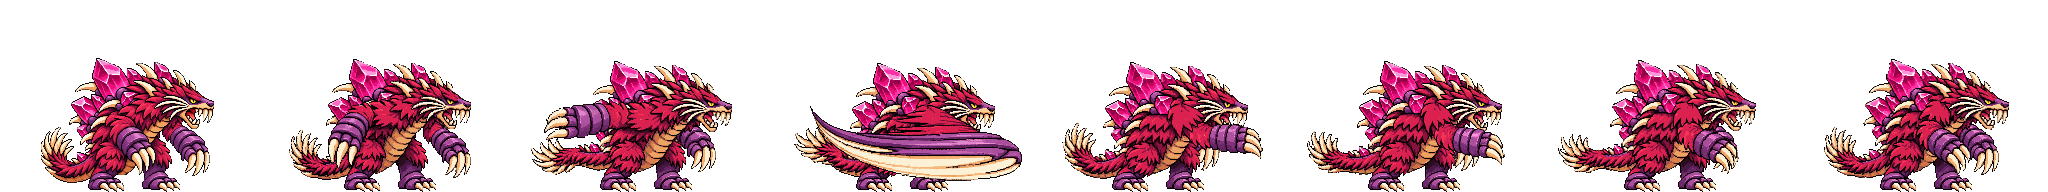
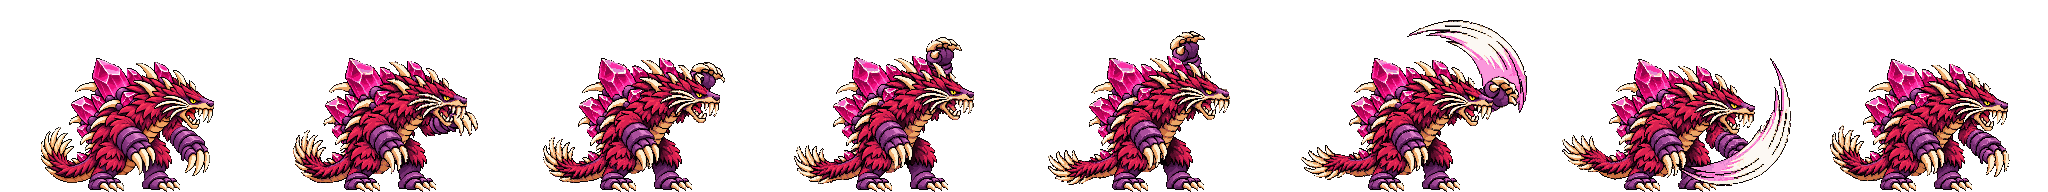
Make light hit 2 swipe with the far arm on Stages 2 and 3
The combo is near arm, far arm, bite, but both regenerated light2 strips
swung the near arm again: PixelLab animates the arm it can see. Re-rolled
with the near leg pinned to the ground and the far arm rising behind the
head before slashing across in front of the snout (two seeds per stage;
Stage 2 uses 10 of 12 frames, Stage 3 all 8). Frame counts and fps are
unchanged.

Claude-Session: https://claude.ai/code/session_01SJ9dCxQEZcSV2FHfL88Zkr

Changed region(s): [[0.125, 0.0938, 1.0, 0.9688]]

diff --git a/README.md b/README.md
@@ -55,9 +55,9 @@ Score is earned points minus actual HP damage penalty, including healed damage. 
 - `src/game.ts`: input, simulation composition, camera, UI, Canvas rendering; update separated from rendering.
 - `public/`: responsive 16:9 shell and asset slots. Art hooks are `monster`, `drawBuilding`, `drawCampaignObjective`, `drawMilitary`, `drawPopulation` and `background`.
 
-**Art:** `public/assets/mogurodon.png` is the first final sprite (transparent, keyed from the supplied render and downscaled to 444×231). Sprites are registered in `SPRITES` in `src/presentation.ts` and used by gameplay, selection previews and the ending scene; kaiju without a sprite fall back to the geometric silhouettes. Mogurodon's base form is its Stage 2 design. Its base still, `public/assets/mogurodon-s2.png`, is the transparent render keyed with `tools/key_render.py` (grid measured at 8.455x8.61 px per art pixel): a 194x106 native sprite at x=31, feet on the bottom row of a 256x192 frame, outline intact. Every Stage 2 strip is generated from it with PixelLab and registered with `S2_NATIVE` (scale 194/256, anchor 128), so it draws at the old width and foot position; frame counts and fps are unchanged (they are the timing the other forms fall back to). The previous Stage 2 strips were a darker brown recolour built on an older base. Strips (all 256x192 except the 256x256 climb): 8-frame idle and walk loops closed on the base pose; light combo `mogurodon-swipe-right.png` (near-claw overhead swipe, 24 fps), `mogurodon-swipe-left.png` (far-claw swipe, 10 of 13 generated frames with the still wind-up dropped, 26 fps), `mogurodon-bite.png` (lunge-bite, 20 fps); heavy rear/slam cut from one 16-frame rear-and-slam generation (rear = frames 0-4, slam = 7-15 from the peak into the crash and dust spikes) plus a 4-frame hold from the peak pose; ranged tail-and-quill fling (the detached quill PixelLab drew flies backwards and is erased; the game draws the projectile) and a crouched quill-bristle shot; crouch down, breathing loop, crouch up (reversed); jump rise, air loop and landing, bottom-aligned; Seismic Rupture roar (8 of 17 frames, 0,2,3,5,8,10,12,16, so the shockwave crash is impact frame 5) and an 8-frame two-claw ground-pound loop; climb grab, loop and mantle with the gripping claws on the wall line at frame x=167 (PixelLab painted the wall as a thin brown post at x=224, erased with a 1px outline redrawn where it covered the body; the mantle starts 23px further back and eases to 0); grab (a pebble PixelLab drew at the claws is erased), carry and carry-walk loops with per-frame `hold` points on the fists, and a throw (re-rolled without any object in the prompt: the first one drew a log). The gold eye is restored with `tools/fix_eye.py` against the base plus crouch, carry, heavy-peak and Ultimate-pose references (`--max-err 9000` skips turned or hidden heads), then every strip gets `fill_pinholes.py` and `remove_specks.py`. `mogurodon.png` is the older high-res reference and is not used by the game.
+**Art:** `public/assets/mogurodon.png` is the first final sprite (transparent, keyed from the supplied render and downscaled to 444×231). Sprites are registered in `SPRITES` in `src/presentation.ts` and used by gameplay, selection previews and the ending scene; kaiju without a sprite fall back to the geometric silhouettes. Mogurodon's base form is its Stage 2 design. Its base still, `public/assets/mogurodon-s2.png`, is the transparent render keyed with `tools/key_render.py` (grid measured at 8.455x8.61 px per art pixel): a 194x106 native sprite at x=31, feet on the bottom row of a 256x192 frame, outline intact. Every Stage 2 strip is generated from it with PixelLab and registered with `S2_NATIVE` (scale 194/256, anchor 128), so it draws at the old width and foot position; frame counts and fps are unchanged (they are the timing the other forms fall back to). The previous Stage 2 strips were a darker brown recolour built on an older base. Strips (all 256x192 except the 256x256 climb): 8-frame idle and walk loops closed on the base pose; light combo `mogurodon-swipe-right.png` (near-claw overhead swipe, 24 fps), `mogurodon-swipe-left.png` (far-arm swipe: the far arm rises behind the head and slashes across while the near leg stays planted, 10 of 12 generated frames, 26 fps; the first generation swung the near arm again, so the prompt pins the near leg), `mogurodon-bite.png` (lunge-bite, 20 fps); heavy rear/slam cut from one 16-frame rear-and-slam generation (rear = frames 0-4, slam = 7-15 from the peak into the crash and dust spikes) plus a 4-frame hold from the peak pose; ranged tail-and-quill fling (the detached quill PixelLab drew flies backwards and is erased; the game draws the projectile) and a crouched quill-bristle shot; crouch down, breathing loop, crouch up (reversed); jump rise, air loop and landing, bottom-aligned; Seismic Rupture roar (8 of 17 frames, 0,2,3,5,8,10,12,16, so the shockwave crash is impact frame 5) and an 8-frame two-claw ground-pound loop; climb grab, loop and mantle with the gripping claws on the wall line at frame x=167 (PixelLab painted the wall as a thin brown post at x=224, erased with a 1px outline redrawn where it covered the body; the mantle starts 23px further back and eases to 0); grab (a pebble PixelLab drew at the claws is erased), carry and carry-walk loops with per-frame `hold` points on the fists, and a throw (re-rolled without any object in the prompt: the first one drew a log). The gold eye is restored with `tools/fix_eye.py` against the base plus crouch, carry, heavy-peak and Ultimate-pose references (`--max-err 9000` skips turned or hidden heads), then every strip gets `fill_pinholes.py` and `remove_specks.py`. `mogurodon.png` is the older high-res reference and is not used by the game.
 
-**Per-stage forms:** `SPRITES[name]` is the base form (for Mogurodon, the art above is its Stage 2 design, also used for Stage 3); `stages[n]` overrides it for one stage. Inside a stage form a missing strip falls back to that form's own `idle`, while gameplay timing (`animDuration`/`animImpact`) borrows the base strip's, so combat is unchanged until a form's strips are animated. Mogurodon Stage 1 (`assets/mogurodon-s1.png`, 256x192, bottom-aligned) is the base; its 8-frame idle (`assets/mogurodon-s1-idle.png`, 8 fps) and walk (`assets/mogurodon-s1-walk.png`, 10 fps, base pose as first and last frame) loops cost one PixelLab generation each. Light combo (`light1`/`light2`/`light3`, keyed by hit order so each form picks its own moves): near (left) paw swipe, far (right) paw swipe, lunging bite (`assets/mogurodon-s1-light1..3.png`) and heavy: `assets/mogurodon-s1-heavy-rear.png` (onto the hind legs) and `assets/mogurodon-s1-heavy-slam.png` (crash and settle) are cut from one generated rear-and-slam strip, with `assets/mogurodon-s1-heavy-hold.png` (straining 4-frame loop) generated from the peak pose. Stage 1 has no tail: its ranged shot (`assets/mogurodon-s1-ranged-stand.png`) lowers the head and arches the back like a hissing cat, firing quills off the back; the projectile spawn and timing are unchanged. Crouch: `assets/mogurodon-s1-crouch-down.png` (flat stalking crouch, ~61% of standing height like Stage 2), `assets/mogurodon-s1-crouch.png` (breathing loop), `assets/mogurodon-s1-crouch-up.png` (reversed), and the crouched shot `assets/mogurodon-s1-ranged-crouch.png` (hunches into the arch from the crouch, fires, flattens back). Climb: `assets/mogurodon-s1-climb-grab.png`, `assets/mogurodon-s1-climb.png` (hand-over-hand loop) and `assets/mogurodon-s1-climb-mantle.png`, 256x256 padded strips with the front claws on the hitbox edge; the grab is shifted onto the wall line and the mantle pre-shifted to cancel the hitbox sliding onto the roof. `tools/remove_wall.py` erases the wall post PixelLab drew into the grab. Seismic Rupture: `assets/mogurodon-s1-ult-roar.png` (rear up, roar, shockwave crash on frame 5 so the first fissure keeps Stage 2's timing) into `assets/mogurodon-s1-ult-pound.png` (two-slam ground-pounding loop). The full-frame base touches the frame edge, so strips that reach forward (light1, light3, heavySlam) are generated from a padded base, `assets/mogurodon-s1-pad.png` (205px wide at x=10, made with `tools/prep_form_base.py --width 205 --x 10`), and registered with `scale`/`anchor` so they draw at the same size and position. Jump: `assets/mogurodon-s1-jump-rise.png` (9 frames, 24 fps) and `assets/mogurodon-s1-jump-air.png` (4-frame loop, 8 fps, generated from the rise's last frame) and `assets/mogurodon-s1-jump-land.png` (5 frames, 20 fps, air pose to base pose), bottom-aligned with `tools/bottom_align.py`. PixelLab washes out the gold eye after frame 0; `tools/fix_eye.py --ref assets/mogurodon-s1.png --radius 30` tracks the head and restores it. Animate further strips with `tools/pixellab_animate.py` and add strips to `stages[1].anims`. Mogurodon Stage 3 (`assets/mogurodon-s3.png`) is the transparent render keyed with `tools/key_render.py`, which measures the render's real pixel grid (about 8.055x7.77 px per art pixel, offset) and keys by alpha, so the sprite keeps its outline and comes out at native resolution: 173x134 at x=41, feet on the bottom row of a 256x192 frame. Every Stage 3 strip is generated from it with PixelLab and registered with `S3_NATIVE` (scale 173/256, anchor 127.5) so it draws at the old width and foot position; frame counts, fps and impact frames match the previous art, so combat timing is unchanged. (The previous base was keyed from a black-background render by brightness on an assumed 8px grid, which ate the outline and joint creases and doubled pixels unevenly; every strip inherited the gaps.) Idle and walk are loops closed with the base as first and last frame. Light combo: near-claw strike with a short pink streak, far-claw horizontal swipe (one smear frame), low lunge-bite. Heavy: one 17-frame rear-and-slam generation cut into `heavy-rear` (frames 0-4) and `heavy-slam` (frames 8-14 and 16: crash with dust and crystal shards, settle), plus a 4-frame `heavy-hold` from the peak pose (re-rolled: a "trembling" prompt scattered dark specks). The reared peak touches the top of the 192px frame. Jump: rise, 4-frame air loop from its last frame and landing, bottom-aligned, landing debris stripped. Ranged: tail whips over the back; the detached shard PixelLab drew (it flew backwards) is erased since the game draws the projectile; the crouched shot flicks the tail while staying flat. Crouch: crouch-down, breathing loop from its last frame, crouch-up = crouch-down reversed. Climb (256x256): PixelLab paints a wall even when told not to; `tools/remove_wall.py` and a wall-line pass erase it, and the wall frames are shifted so the gripping claws sit on the wall line at frame x=162 (hitbox edge, 24 world units from the origin). The mantle starts a further 21px back (the game slides him 0.3 body widths onto the roof) and eases to 0 by its base-pose last frame. Ultimate: the roar is 8 of a 17-frame generation (frames 0,1,2,4,9,11,13,16) so the crash into the crystal eruption lands on impact frame 5; the 16-frame pound loop slams the near claw then the far claw with dust and sparks. Grab/carry/throw: the grab scoops then rears with both claws overhead (a rock PixelLab drew in frame 1 is erased); carry and carry-walk loop from its last frame and the throw ends on the base pose. Grab, carry and carry-walk have per-frame `hold` points measured on the fists. PixelLab washes the gold eye out after frame 0, so `tools/fix_eye.py` restores it against the base and, for frames it cannot match, against wide-search references for the crouch, carry and heavy-peak poses; `--max-err 9000` skips frames where the head is turned or hidden (grab scoop frames 2-5, the upright roar, the head-down pound loop). Every strip then gets `fill_pinholes.py` and `remove_specks.py`. Request PixelLab frame counts in multiples of 4 (the strip gets the input frame plus that many). Add further strips to `stages[3].anims`. `tools/prep_form_base.py` keys a black-background render and fits it into a frame for that.
+**Per-stage forms:** `SPRITES[name]` is the base form (for Mogurodon, the art above is its Stage 2 design, also used for Stage 3); `stages[n]` overrides it for one stage. Inside a stage form a missing strip falls back to that form's own `idle`, while gameplay timing (`animDuration`/`animImpact`) borrows the base strip's, so combat is unchanged until a form's strips are animated. Mogurodon Stage 1 (`assets/mogurodon-s1.png`, 256x192, bottom-aligned) is the base; its 8-frame idle (`assets/mogurodon-s1-idle.png`, 8 fps) and walk (`assets/mogurodon-s1-walk.png`, 10 fps, base pose as first and last frame) loops cost one PixelLab generation each. Light combo (`light1`/`light2`/`light3`, keyed by hit order so each form picks its own moves): near (left) paw swipe, far (right) paw swipe, lunging bite (`assets/mogurodon-s1-light1..3.png`) and heavy: `assets/mogurodon-s1-heavy-rear.png` (onto the hind legs) and `assets/mogurodon-s1-heavy-slam.png` (crash and settle) are cut from one generated rear-and-slam strip, with `assets/mogurodon-s1-heavy-hold.png` (straining 4-frame loop) generated from the peak pose. Stage 1 has no tail: its ranged shot (`assets/mogurodon-s1-ranged-stand.png`) lowers the head and arches the back like a hissing cat, firing quills off the back; the projectile spawn and timing are unchanged. Crouch: `assets/mogurodon-s1-crouch-down.png` (flat stalking crouch, ~61% of standing height like Stage 2), `assets/mogurodon-s1-crouch.png` (breathing loop), `assets/mogurodon-s1-crouch-up.png` (reversed), and the crouched shot `assets/mogurodon-s1-ranged-crouch.png` (hunches into the arch from the crouch, fires, flattens back). Climb: `assets/mogurodon-s1-climb-grab.png`, `assets/mogurodon-s1-climb.png` (hand-over-hand loop) and `assets/mogurodon-s1-climb-mantle.png`, 256x256 padded strips with the front claws on the hitbox edge; the grab is shifted onto the wall line and the mantle pre-shifted to cancel the hitbox sliding onto the roof. `tools/remove_wall.py` erases the wall post PixelLab drew into the grab. Seismic Rupture: `assets/mogurodon-s1-ult-roar.png` (rear up, roar, shockwave crash on frame 5 so the first fissure keeps Stage 2's timing) into `assets/mogurodon-s1-ult-pound.png` (two-slam ground-pounding loop). The full-frame base touches the frame edge, so strips that reach forward (light1, light3, heavySlam) are generated from a padded base, `assets/mogurodon-s1-pad.png` (205px wide at x=10, made with `tools/prep_form_base.py --width 205 --x 10`), and registered with `scale`/`anchor` so they draw at the same size and position. Jump: `assets/mogurodon-s1-jump-rise.png` (9 frames, 24 fps) and `assets/mogurodon-s1-jump-air.png` (4-frame loop, 8 fps, generated from the rise's last frame) and `assets/mogurodon-s1-jump-land.png` (5 frames, 20 fps, air pose to base pose), bottom-aligned with `tools/bottom_align.py`. PixelLab washes out the gold eye after frame 0; `tools/fix_eye.py --ref assets/mogurodon-s1.png --radius 30` tracks the head and restores it. Animate further strips with `tools/pixellab_animate.py` and add strips to `stages[1].anims`. Mogurodon Stage 3 (`assets/mogurodon-s3.png`) is the transparent render keyed with `tools/key_render.py`, which measures the render's real pixel grid (about 8.055x7.77 px per art pixel, offset) and keys by alpha, so the sprite keeps its outline and comes out at native resolution: 173x134 at x=41, feet on the bottom row of a 256x192 frame. Every Stage 3 strip is generated from it with PixelLab and registered with `S3_NATIVE` (scale 173/256, anchor 127.5) so it draws at the old width and foot position; frame counts, fps and impact frames match the previous art, so combat timing is unchanged. (The previous base was keyed from a black-background render by brightness on an assumed 8px grid, which ate the outline and joint creases and doubled pixels unevenly; every strip inherited the gaps.) Idle and walk are loops closed with the base as first and last frame. Light combo: near-arm (left) strike with a short pink streak, far-arm (right) swipe that rises behind the head and slashes down with a white arc (prompted with the near leg pinned; the first generation swung the near arm again), low lunge-bite. Heavy: one 17-frame rear-and-slam generation cut into `heavy-rear` (frames 0-4) and `heavy-slam` (frames 8-14 and 16: crash with dust and crystal shards, settle), plus a 4-frame `heavy-hold` from the peak pose (re-rolled: a "trembling" prompt scattered dark specks). The reared peak touches the top of the 192px frame. Jump: rise, 4-frame air loop from its last frame and landing, bottom-aligned, landing debris stripped. Ranged: tail whips over the back; the detached shard PixelLab drew (it flew backwards) is erased since the game draws the projectile; the crouched shot flicks the tail while staying flat. Crouch: crouch-down, breathing loop from its last frame, crouch-up = crouch-down reversed. Climb (256x256): PixelLab paints a wall even when told not to; `tools/remove_wall.py` and a wall-line pass erase it, and the wall frames are shifted so the gripping claws sit on the wall line at frame x=162 (hitbox edge, 24 world units from the origin). The mantle starts a further 21px back (the game slides him 0.3 body widths onto the roof) and eases to 0 by its base-pose last frame. Ultimate: the roar is 8 of a 17-frame generation (frames 0,1,2,4,9,11,13,16) so the crash into the crystal eruption lands on impact frame 5; the 16-frame pound loop slams the near claw then the far claw with dust and sparks. Grab/carry/throw: the grab scoops then rears with both claws overhead (a rock PixelLab drew in frame 1 is erased); carry and carry-walk loop from its last frame and the throw ends on the base pose. Grab, carry and carry-walk have per-frame `hold` points measured on the fists. PixelLab washes the gold eye out after frame 0, so `tools/fix_eye.py` restores it against the base and, for frames it cannot match, against wide-search references for the crouch, carry and heavy-peak poses; `--max-err 9000` skips frames where the head is turned or hidden (grab scoop frames 2-5, the upright roar, the head-down pound loop). Every strip then gets `fill_pinholes.py` and `remove_specks.py`. Request PixelLab frame counts in multiples of 4 (the strip gets the input frame plus that many). Add further strips to `stages[3].anims`. `tools/prep_form_base.py` keys a black-background render and fits it into a frame for that.
 
 No user sprites were imported or overwritten; supplied documents were preserved. All current art is explicitly temporary Canvas geometry, with no AI asset generation or sound. Put final hand-drawn sprites in `public/assets/`, preserve transparent originals, use bottom-center anchors, integer frame rectangles and nearest-neighbor filtering. Final kaiju sheets, building/unit sprites, intro/menu and six ending illustrations remain missing.
 
